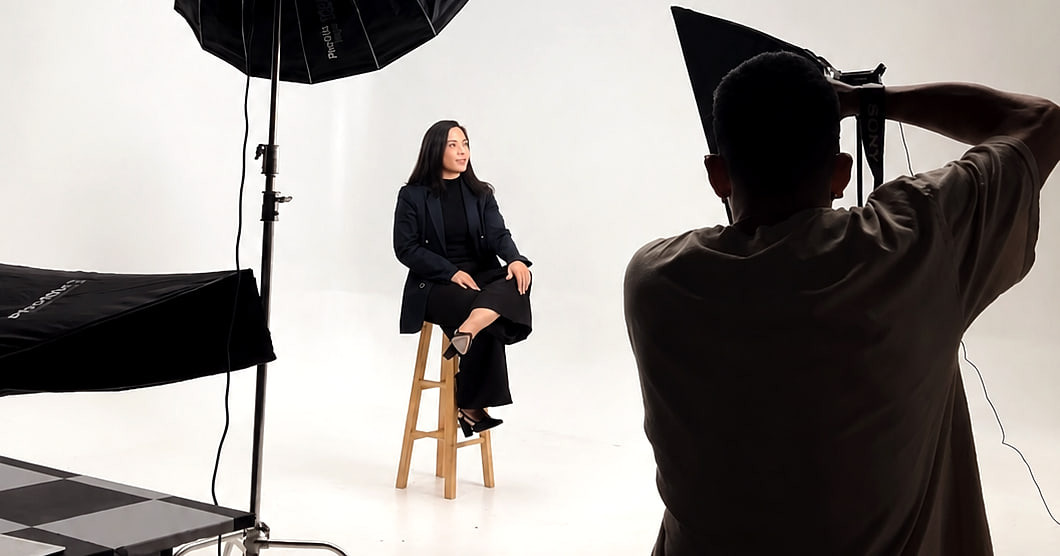
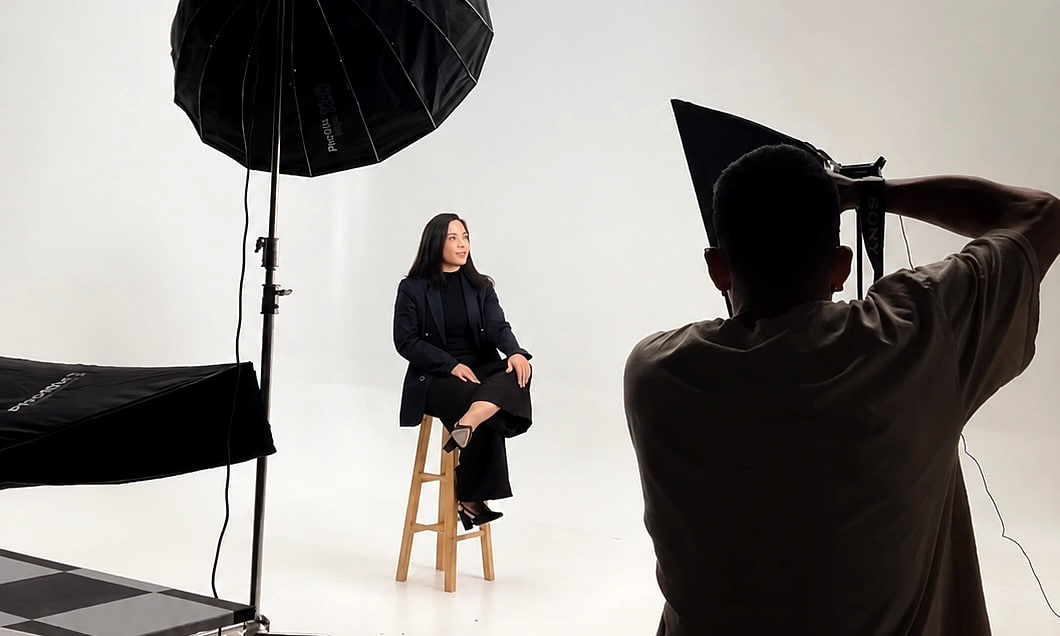
Usar el encuadre de Sonia para el hero y dejar que la foto mande la proporción
Su recorte es mejor que el mío: el mío cortaba la cabeza del fotógrafo y
el alto del softbox, el suyo tiene aire arriba y la escena entera.

Con eso, recortarlo a la tira de 2,3:1 del contenedor deshacía justo lo
que el encuadre resuelve, así que la proporción la manda ahora la foto
(1060/636) y el alto va en auto. En móvil sí se recorta a 5:4, porque a
390px la escena completa deja a la vocera diminuta.

La tarjeta para compartir se rehace desde el mismo archivo.

Claude-Session: https://claude.ai/code/session_01HwsF43NDQGpxWuc15Bch2F

diff --git a/index.html b/index.html
@@ -233,7 +233,12 @@ em.it{font-family:var(--serif);font-style:italic;font-weight:400;letter-spacing:
 .hero-ctas{display:flex;flex-wrap:wrap;gap:14px;margin-top:36px;align-items:center}
 .hero-note{font-size:12px;color:var(--gray);margin-top:14px}
 .hero-media{position:relative;margin-top:clamp(40px,6vw,80px);border-radius:24px;overflow:hidden;border:1px solid rgba(255,255,255,.08)}
-.hero-media img{width:100%;height:clamp(260px,42vw,560px);object-fit:cover;object-position:center 55%;filter:saturate(1.05)}
+/* La proporción la manda la foto, no el contenedor: recortarla a una tira de
+   2,3:1 volvía a cortar la cabeza del fotógrafo y el alto del softbox, que es
+   justo lo que este encuadre resuelve. En móvil sí se recorta un poco, porque
+   a 390px la escena entera deja a la vocera diminuta. */
+.hero-media img{width:100%;height:auto;aspect-ratio:1060/636;object-fit:cover;object-position:center;filter:saturate(1.05)}
+@media(max-width:700px){.hero-media img{aspect-ratio:5/4;object-position:58% center}}
 .hero-media::after{content:"";position:absolute;inset:0;background:linear-gradient(180deg,transparent 55%,rgba(8,8,8,.55))}
 /* rotating badge */
 .spin-badge{position:absolute;right:clamp(14px,4vw,40px);bottom:clamp(14px,4vw,40px);width:clamp(110px,14vw,160px);height:clamp(110px,14vw,160px);z-index:3}
@@ -612,7 +617,7 @@ html.js .rv.on{opacity:1;transform:none}
     <p class="hero-note rv">Una hora · sin costo · sin compromiso</p>
 
     <div class="hero-media rv">
-      <picture><source srcset="assets/images/hero.webp" type="image/webp"><img alt="Sesión de retrato de Lumma en ciclorama: el fotógrafo dirigiendo, la luz montada y la vocera sentada en el set" src="assets/images/hero.jpg" width="1060" height="556" fetchpriority="high" decoding="async"></picture>
+      <picture><source srcset="assets/images/hero.webp" type="image/webp"><img alt="Sesión de retrato de Lumma en ciclorama: el fotógrafo dirigiendo, la luz montada y la vocera sentada en el set" src="assets/images/hero.jpg" width="1060" height="636" fetchpriority="high" decoding="async"></picture>
       <a class="spin-badge" href="analisis.html" aria-label="Solicitar diagnóstico">
         <svg viewBox="0 0 100 100">
           <defs><path id="circ" d="M 50,50 m -37,0 a 37,37 0 1,1 74,0 a 37,37 0 1,1 -74,0"/></defs>
